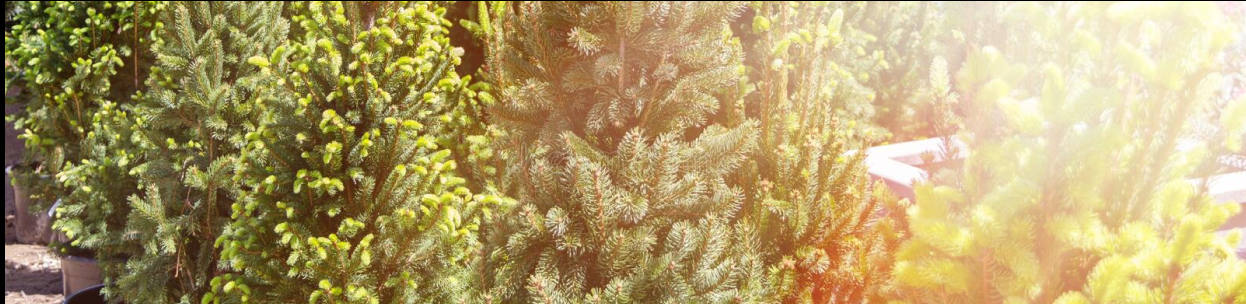
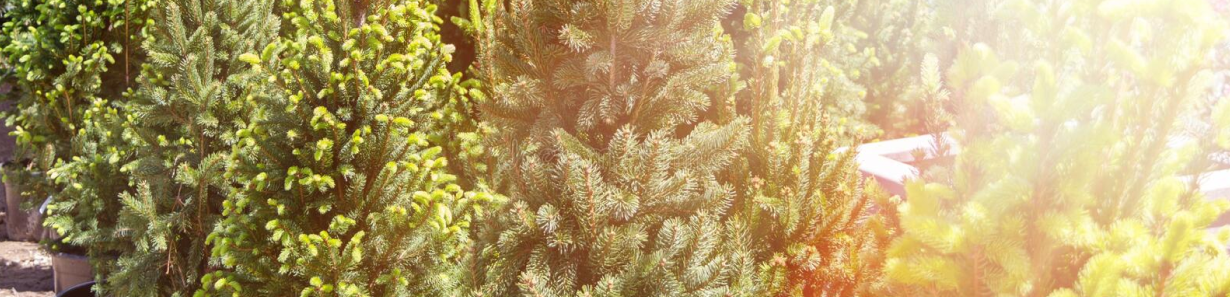
Image correction

diff --git a/OtoNoApp/src/app/plantas/plantas-list/plantas-list.component.html b/OtoNoApp/src/app/plantas/plantas-list/plantas-list.component.html
@@ -1,13 +1,14 @@
-<div> 
-  <img src="OtoNoApp\src\assets\Fondo.png" class="img-fluid" alt="Imagen" />
-</div>
 
 <div class="container-fluid">
+  <h1> Vivero Otoño</h1>
+  <div> 
+    <img src="https://raw.githubusercontent.com/DavidCdajud/ParcialAngular/main/OtoNoApp/src/assets/Fondo.png" class="img-fluid" alt="Imagen" />
+  </div>
   <div class="col-6">
     <table class="table">
       <thead>
         <tr>
-          <th class="h4"># </th>
+          <th class="h4">#</th>
           <th class="h4">Nombre Común</th>
           <th class="h4">Tipo</th>
           <th class="h4">Clima</th>
@@ -16,7 +17,7 @@
       <tbody>
         <tr *ngFor="let c of plantas">
           <td>
-            <dd>{{ c.nombre_cientifico}}</dd>
+            <dd class="important-data">{{ c.nombre_cientifico }}</dd>
           </td>
           <td>
             <dd>{{ c.tipo }}</dd>

diff --git a/OtoNoApp/src/styles.css b/OtoNoApp/src/styles.css
@@ -1,1 +1,17 @@
-/* You can add global styles to this file, and also import other style files */
+table {
+    border: 1px solid black;
+  }
+  
+  th, td {
+    text-align: center;
+    padding: 5px;
+  }
+  
+  tr:nth-child(odd) {
+    background-color: #f5f5f5;
+  }
+  
+  .important-data {
+    font-size: 16px;
+    font-weight: bold;
+  }

diff --git a/OtoNoApp/src/app/app.component.html b/OtoNoApp/src/app/app.component.html
@@ -1,2 +1,1 @@
-<h1 class="" display-2 p-3>Vivero el otoño</h1>
 <app-plantas-list></app-plantas-list>
